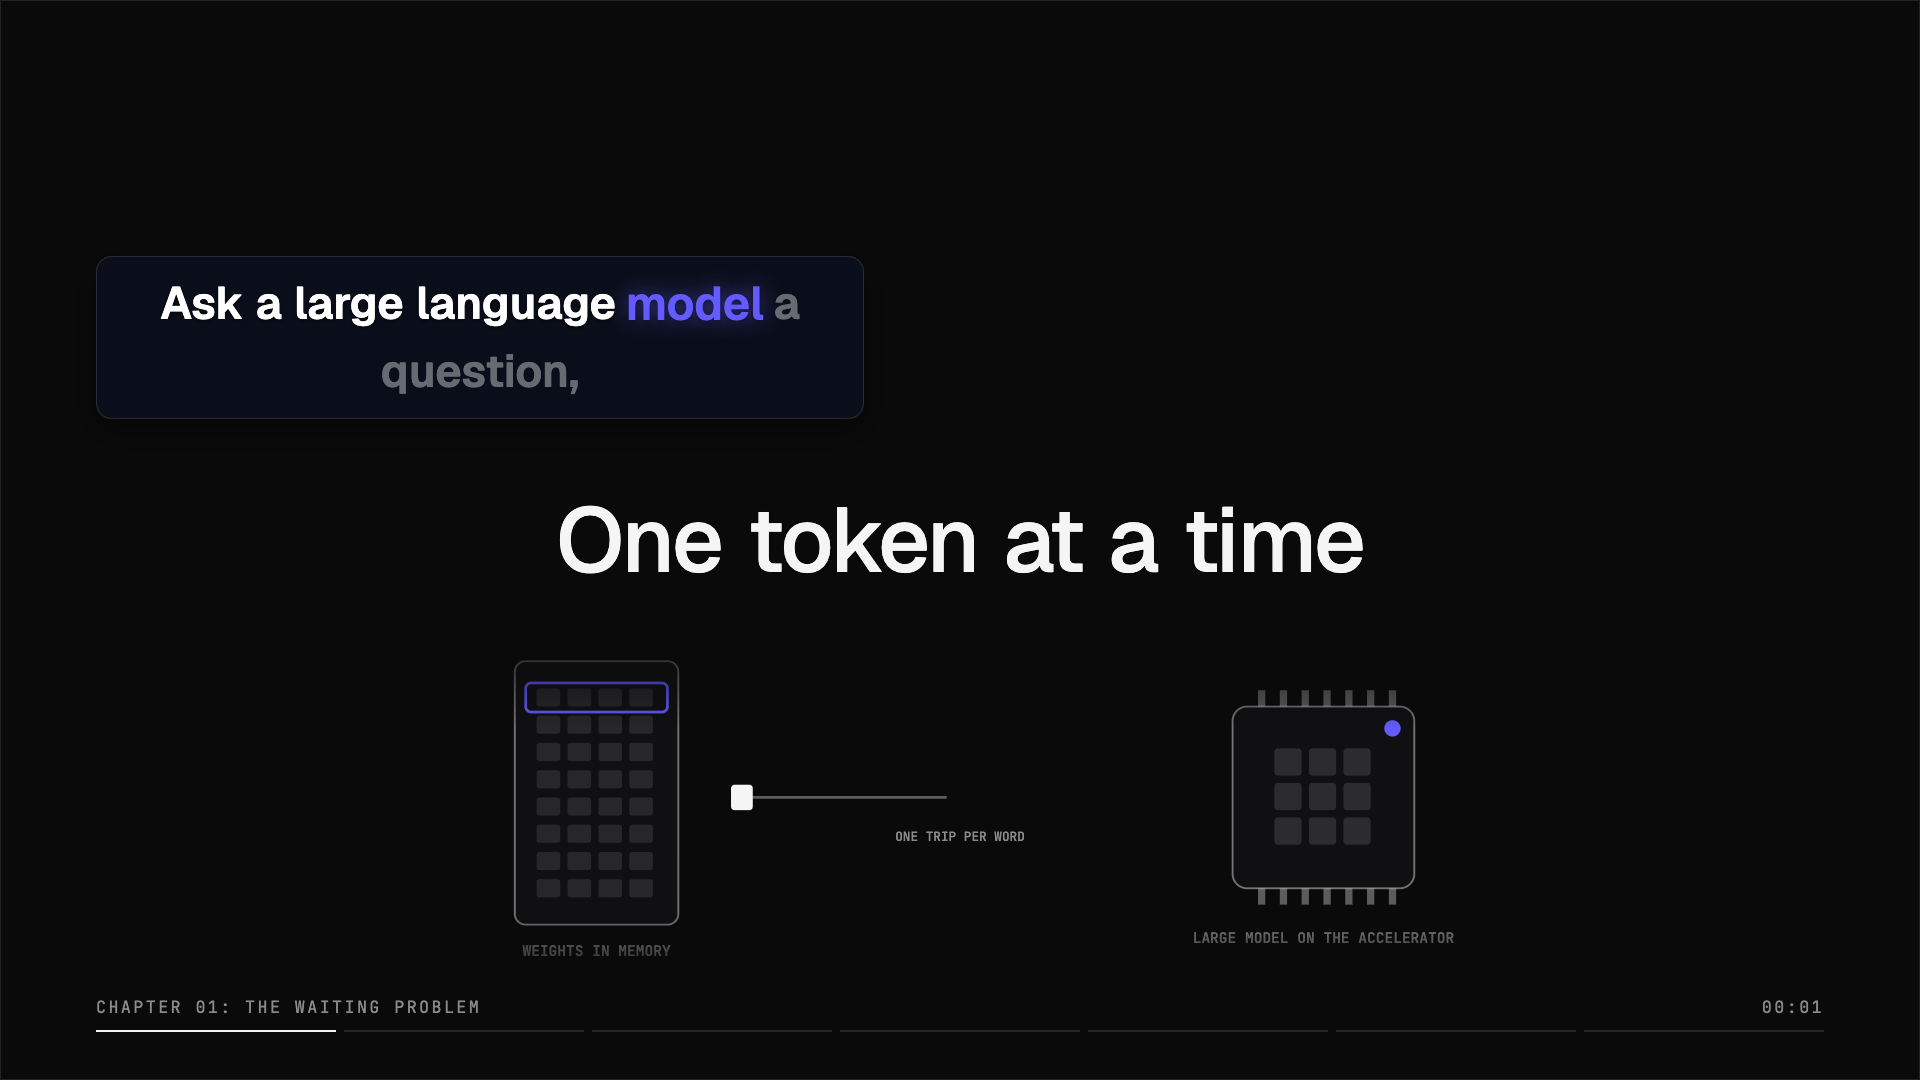
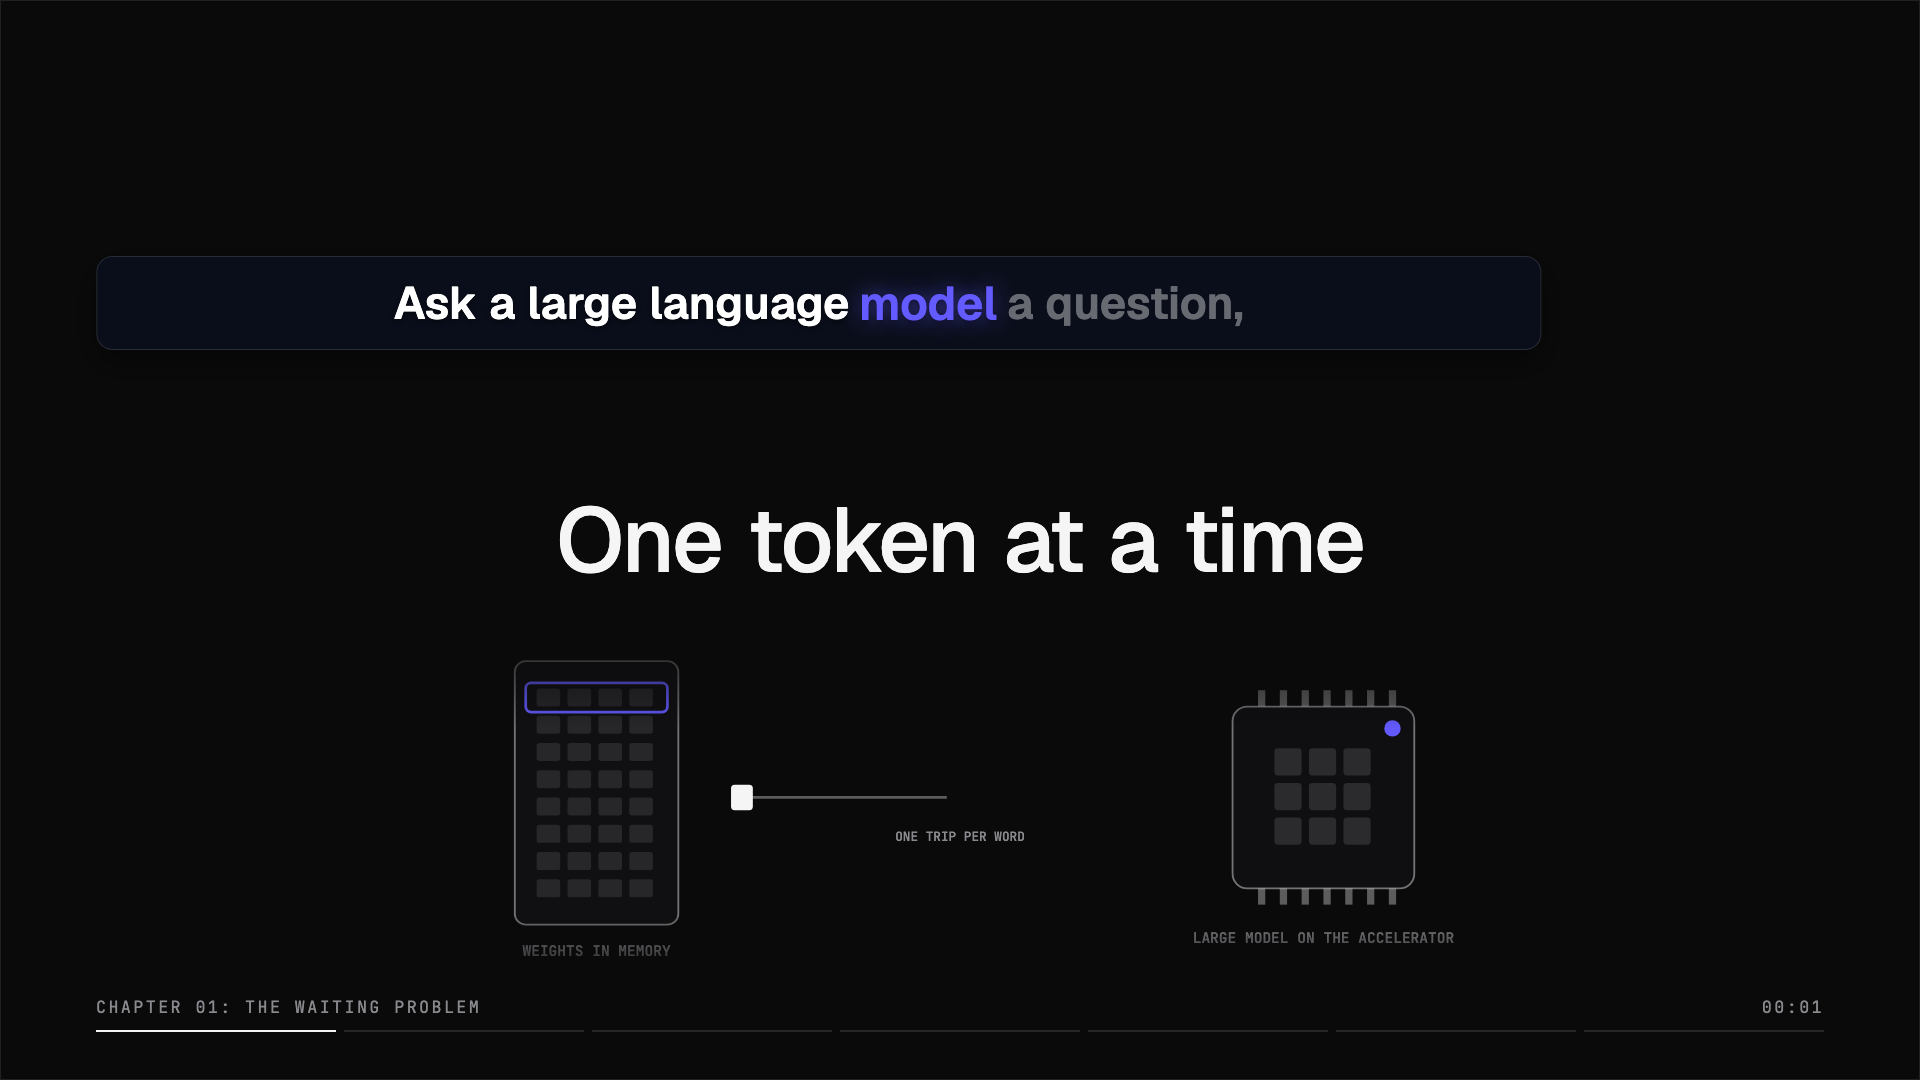
no-mistakes(review): Close caption review, gesture, export, and SVG scope gaps

Changed region(s): [[0.0625, 0.2444, 0.6562, 0.3056], [0.1875, 0.3361, 0.3125, 0.3667]]

diff --git a/backend/captionPlacement.test.ts b/backend/captionPlacement.test.ts
@@ -129,6 +129,14 @@ test("move and resize use composition coordinates and preserve the opposite edge
   });
   assert.equal(snapped.x, 0.5);
 });
+
+// Keeps an untouched gesture axis fixed when safe-area clamping would otherwise shift it.
+test("horizontal drag and width resize preserve the original vertical position", () => {
+  const implicit = resolveCaptionPlacement(base, "long");
+  assert.equal(dragCaption({ placement: implicit, format: "long", dx: 12, dy: 0, scale: 1, snap: false }).y, implicit.y);
+  assert.equal(dragCaption({ placement: implicit, format: "long", dx: 0, dy: 12, scale: 1, snap: false }).x, implicit.x);
+  assert.equal(resizeCaption({ placement: implicit, format: "long", edge: "right", dx: -12, scale: 1, snap: false }).y, implicit.y);
+});
 // Verifies rebuild carry-forward, owner reset and locked non-owner protection.
 test("writers preserve placements and owners alone can reset locked entries", () => {
   const previous = {
@@ -302,24 +310,53 @@ test("full design check uses the phrase start placement against art in the next 
 test("caption geometry rejects absolute and traversing SVG sources", async () => {
   const path = await import("node:path");
   const { resolveCaptionSvgSource } = await import("./designCheck/insetRegion");
-  assert.throws(() => resolveCaptionSvgSource("/etc/passwd.svg"), /only accepts package visuals SVG paths/);
-  assert.throws(() => resolveCaptionSvgSource("examples/demo/visuals/../../../../etc/passwd.svg"), /only accepts package visuals SVG paths/);
+  assert.throws(() => resolveCaptionSvgSource("/etc/passwd.svg", "demo"), /only accepts package visuals SVG paths/);
+  assert.throws(() => resolveCaptionSvgSource("examples/demo/visuals/../../../../etc/passwd.svg", "demo"), /only accepts package visuals SVG paths/);
   assert.throws(() => resolveCaptionSvgSource("examples/hello-scene/visuals/nodes.svg", "inset-stage"), /must belong to package/);
   const videosDir = fs.mkdtempSync(path.join(process.cwd(), ".caption-svg-scope-test-"));
   const packageDir = path.join(videosDir, "caption-scope-test");
+  const otherPackageDir = path.join(videosDir, "other-package");
   const visualsDir = path.join(packageDir, "visuals");
   const priorVideosDir = process.env.AIDEOS_VIDEOS_DIR;
   fs.mkdirSync(visualsDir, { recursive: true });
+  fs.mkdirSync(path.join(otherPackageDir, "visuals"), { recursive: true });
   fs.writeFileSync(path.join(packageDir, "film.json"), "{}");
-  fs.symlinkSync(path.resolve("examples/hello-scene/visuals/nodes.svg"), path.join(visualsDir, "escape.svg"));
+  fs.writeFileSync(path.join(otherPackageDir, "film.json"), "{}");
+  fs.writeFileSync(path.join(otherPackageDir, "visuals", "private.svg"), '<svg><text id="other-film-secret">private label</text></svg>');
+  fs.rmSync(visualsDir, { recursive: true });
+  fs.symlinkSync(path.join(otherPackageDir, "visuals"), visualsDir);
   process.env.AIDEOS_VIDEOS_DIR = videosDir;
   try {
-    assert.throws(() => resolveCaptionSvgSource("videos/caption-scope-test/visuals/escape.svg", "caption-scope-test"), /authorized package|escapes package/);
+    assert.throws(
+      () => resolveCaptionSvgSource("videos/caption-scope-test/visuals/private.svg", "caption-scope-test"),
+      (error: Error) => {
+        assert.match(error.message, /authorized package/);
+        assert.doesNotMatch(error.message, /other-film-secret|private label/);
+        return true;
+      },
+    );
   } finally {
     if (priorVideosDir === undefined) delete process.env.AIDEOS_VIDEOS_DIR;
     else process.env.AIDEOS_VIDEOS_DIR = priorVideosDir;
     fs.rmSync(videosDir, { recursive: true, force: true });
   }
+});
+
+// Disabled caption sources do not create a review region that unrelated text could satisfy.
+test("caption review omits placement geometry when rendering is disabled", async () => {
+  const { prepareCaptionReview } = await import("./review/captionRegion");
+  const { analyzeSample } = await import("./review/ocr");
+  const { measureBottomCaptions } = await import("./geminiReview/facts");
+  const placed = { ...base, captionPlacement: { long: top } };
+  const captionsOff = prepareCaptionReview({ ...placed, captions: "off" }, 1920, 1080);
+  const subtitlesOff = prepareCaptionReview({ ...placed, subtitles: false }, 1920, 1080);
+  assert.equal(captionsOff, null);
+  assert.equal(subtitlesOff, null);
+  const words = ["one", "two", "three"].map((text, index) => ({ text, left: 100 + index * 100, top: 900, width: 70, height: 45, conf: 95 }));
+  assert.equal(analyzeSample(words, null, 1920, 1080, 1, captionsOff).hasCaption, false);
+  const measured = await measureBottomCaptions("unused.mp4", 4, 12, captionsOff);
+  assert.equal(measured.hasCaptions, false);
+  assert.match(measured.summary, /disabled/);
 });
 
 // Executes the closed AI operation and its atomic rollback on a locked target.

diff --git a/backend/designCheck/insetRegion.ts b/backend/designCheck/insetRegion.ts
@@ -70,31 +70,33 @@ export function resolveCaptionSvgSource(svgSource: string, packageSlug?: string)
     parts.some((part) => !part || part === "." || part === "..") ||
     !/^(videos|examples)\/[^/]+\/visuals\/[^/]+\.svg$/.test(svgSource)
   ) throw new Error(`Caption geometry only accepts package visuals SVG paths: ${svgSource}`);
+  const targetSlug = packageSlug ?? parts[1];
   if (packageSlug && (parts[1] !== packageSlug || !/^[a-z0-9-]+$/.test(packageSlug)))
     throw new Error(`Caption geometry SVG source must belong to package ${packageSlug}: ${svgSource}`);
-  let resolved: string;
+  if (!/^[a-z0-9-]+$/.test(targetSlug))
+    throw new Error(`Caption geometry package slug is invalid: ${targetSlug}`);
+  const personalDir = getVideosDir();
+  const packageDir = resolvePackageDir(targetSlug);
+  const personalPackage = path.resolve(packageDir) === path.resolve(personalDir, targetSlug);
+  const expectedPrefix = `${personalPackage ? "videos" : "examples"}/${targetSlug}/visuals/`;
+  if (!svgSource.startsWith(expectedPrefix))
+    throw new Error(`Caption geometry SVG source must belong to package ${targetSlug}: ${svgSource}`);
+  const packageVisuals = path.join(packageDir, "visuals");
+  const svgPath = path.join(packageVisuals, parts[3]);
   try {
-    resolved = fs.realpathSync(resolveRepoAssetPath(svgSource));
+    if (fs.lstatSync(packageDir).isSymbolicLink() || fs.lstatSync(packageVisuals).isSymbolicLink() || fs.lstatSync(svgPath).isSymbolicLink())
+      throw new Error("Package SVG paths may not be symlinks");
+    const videosRoot = fs.realpathSync(personalPackage ? personalDir : getExamplesDir());
+    const physicalPackage = fs.realpathSync(packageDir);
+    if (physicalPackage !== path.join(videosRoot, targetSlug)) throw new Error("Package directory is not physically owned by its root");
+    const visualRoot = fs.realpathSync(packageVisuals);
+    const resolved = fs.realpathSync(svgPath);
+    const visualRelative = path.relative(visualRoot, resolved);
+    if (visualRelative.startsWith("..") || path.isAbsolute(visualRelative)) throw new Error("SVG escapes package visuals");
+    return resolved;
   } catch {
     throw new Error(`Caption geometry SVG source does not resolve to an authorized package asset: ${svgSource}`);
   }
-  const roots = [getVideosDir(), getExamplesDir()].flatMap((root) => {
-    try { return [fs.realpathSync(root)]; } catch { return []; }
-  });
-  const inPackageVisuals = roots.some((root) => {
-    const relative = path.relative(path.resolve(root), resolved);
-    return !relative.startsWith("..") && !path.isAbsolute(relative) && relative.split(path.sep)[1] === "visuals";
-  });
-  if (!inPackageVisuals) throw new Error(`Caption geometry SVG path escapes an authorized package visuals directory: ${svgSource}`);
-  if (packageSlug) {
-    let visualRoot: string;
-    try { visualRoot = fs.realpathSync(path.join(resolvePackageDir(packageSlug), "visuals")); }
-    catch { throw new Error(`Caption geometry package visuals directory does not resolve: ${packageSlug}`); }
-    const relative = path.relative(visualRoot, resolved);
-    if (relative.startsWith("..") || path.isAbsolute(relative))
-      throw new Error(`Caption geometry SVG source escapes package ${packageSlug}: ${svgSource}`);
-  }
-  return resolved;
 }
 
 // Reads an element's authored opacity, defaulting to opaque.
@@ -105,7 +107,7 @@ function authoredOpacity(node: SvgNode): number {
 
 // Flattens an asset document into its drawn elements, recording each one's chain of ancestors.
 function collectLeaves(svgSource: string, packageSlug?: string): Leaf[] {
-  const file = resolveCaptionSvgSource(svgSource, packageSlug);
+  const file = packageSlug ? resolveCaptionSvgSource(svgSource, packageSlug) : resolveRepoAssetPath(svgSource);
   if (!fs.existsSync(file)) return [];
   // A design build rewrites artwork in place, so the cache is keyed by the file's own version.
   const stat = fs.statSync(file);
@@ -246,7 +248,7 @@ export function checkInsetRegions(film: Film, scene: Scene): InsetFinding[] {
         const toPx = sceneToFrame(frame, scene, size.width, size.height);
         for (const entity of frame.entities) {
           if (entity.kind === "background" || reported.has(entity.entityId)) continue;
-          const hit = projectedSvgParts(entity, toPx).find((part) => overlapOf(part.bounds, region));
+          const hit = projectedSvgParts(entity, toPx, film.id).find((part) => overlapOf(part.bounds, region));
           if (!hit) continue;
           reported.add(entity.entityId);
           const cut = format === "long" ? "wide" : "reel";

diff --git a/backend/review/renderFacts.ts b/backend/review/renderFacts.ts
@@ -34,7 +34,7 @@ export interface RenderFacts {
 export interface RenderOptions {
   /** Skip the OCR pass (pixel facts only). */
   skipOcr?: boolean;
-  captionRectAt?: (t: number) => CaptionRect;
+  captionRectAt?: ((t: number) => CaptionRect) | null;
   onProgress?: (message: string) => void;
 }
 
@@ -56,14 +56,14 @@ async function pixelPass(file: string) {
 }
 
 // Runs the OCR pass: one full-resolution frame per sample interval, several tesseract processes at once.
-async function ocrPass(file: string, video: VideoFacts, onProgress?: (m: string) => void, captionRectAt?: (t: number) => CaptionRect): Promise<SampleAnalysis[]> {
+async function ocrPass(file: string, video: VideoFacts, onProgress?: (m: string) => void, captionRectAt?: ((t: number) => CaptionRect) | null): Promise<SampleAnalysis[]> {
   const out: SampleAnalysis[] = [];
   const limit = Math.max(1, Math.min(4, os.cpus().length - 1));
   const inflight = new Set<Promise<void>>();
   await streamSampleFrames(file, video, THRESHOLDS.captions.sampleEverySec, async (gray, index, t) => {
     if (t > video.durationSec) return;
     const job = ocrFrame(gray, video.width, video.height).then((words) => {
-      out.push(analyzeSample(words, gray, video.width, video.height, t, captionRectAt?.(t)));
+      out.push(analyzeSample(words, gray, video.width, video.height, t, captionRectAt === null ? null : captionRectAt?.(t)));
       if (index % 10 === 9) onProgress?.(`ocr ${out.length} samples`);
     });
     const tracked = job.finally(() => inflight.delete(tracked));

diff --git a/backend/review/ocr.ts b/backend/review/ocr.ts
@@ -159,12 +159,12 @@ function overlapping(a: OcrWord, b: OcrWord, ratio: number): boolean {
 }
 
 // Measures one sampled frame: caption card, small and faint words, overlaps, edge crowding, numbers.
-export function analyzeSample(words: OcrWord[], gray: Uint8Array | null, width: number, height: number, t: number, captionRect?: CaptionRect): SampleAnalysis {
+export function analyzeSample(words: OcrWord[], gray: Uint8Array | null, width: number, height: number, t: number, captionRect?: CaptionRect | null): SampleAnalysis {
   const unit = Math.min(width, height) / 1080;
   const T = THRESHOLDS;
   const confident = words.filter((w) => w.conf >= T.readability.confidenceMin && w.text.length > 1 && /[A-Za-z0-9]/.test(w.text));
 
-  const band = confident.filter((w) => (captionRect ? w.left >= captionRect.x && w.left + w.width <= captionRect.x + captionRect.w && w.top >= captionRect.y && w.top + w.height <= captionRect.y + captionRect.h : w.top > height * T.captions.bandTopRatio) && w.height / unit >= T.captions.wordHeightMin);
+  const band = captionRect === null ? [] : confident.filter((w) => (captionRect ? w.left >= captionRect.x && w.left + w.width <= captionRect.x + captionRect.w && w.top >= captionRect.y && w.top + w.height <= captionRect.y + captionRect.h : w.top > height * T.captions.bandTopRatio) && w.height / unit >= T.captions.wordHeightMin);
   const lines = new Map<number, OcrWord[]>();
   for (const w of band) {
     const key = Math.round(w.top / (20 * unit));

diff --git a/src/dl/Video.tsx b/src/dl/Video.tsx
@@ -4,7 +4,7 @@
  * Used by: src/Root.tsx, backend/insetStage.test.ts.
  */
 
-import React from "react";
+import React, { useMemo } from "react";
 import { Audio, Sequence, staticFile, useVideoConfig } from "remotion";
 import { FilmView } from "./Film";
 import { deliveryTimeline, formatForSize } from "./delivery";
@@ -56,6 +56,7 @@ export const Video: React.FC<VideoProps> = ({
   const effectiveVoiceoverVolume = voiceoverVolume ?? film.voiceover?.volume ?? 1;
   const effectiveMusicSrc = (musicSrc ?? "").trim() || film.music?.src || film.audio?.src || "";
   const effectiveMusicVolume = musicVolume ?? film.music?.volume ?? 1;
+  const captionWords = useMemo(() => captionWordsForFilm(film), [film]);
 
   // Extract speech intervals from audio clips or timeline shots with narration
   const speechIntervals: SpeechInterval[] =
@@ -165,9 +166,7 @@ export const Video: React.FC<VideoProps> = ({
         accent={accent}
         showGrid={showGrid}
         showRail={showRail}
-        captionWords={
-          captionWordsForFilm(film)
-        }
+        captionWords={captionWords}
         includeAudio={false}
       />
     </>

diff --git a/src/dl/captionPlacement.ts b/src/dl/captionPlacement.ts
@@ -172,7 +172,12 @@ export function dragCaption({
   const bounds = captionBounds(format, width, height, next.w, next.y);
   next.x = snapTo(next.x, [bounds.minX, 0.5, bounds.maxX], snap);
   next.y = snapTo(next.y, [bounds.minY, 0.45, bounds.maxY], snap);
-  return clampCaptionPlacement(next, format);
+  const clamped = clampCaptionPlacement(next, format);
+  return {
+    ...clamped,
+    x: dx === 0 && next.x === placement.x ? placement.x : clamped.x,
+    y: dy === 0 && next.y === placement.y ? placement.y : clamped.y,
+  };
 }
 // Resizes from one edge while retaining the opposite edge and the fixed font size.
 export function resizeCaption({
@@ -196,10 +201,11 @@ export function resizeCaption({
     bounds.minW,
     Math.max(bounds.minW, limit),
   );
-  return clampCaptionPlacement(
+  const clamped = clampCaptionPlacement(
     { ...placement, w, x: opposite + ((edge === "left" ? -1 : 1) * w) / 2 },
     format,
   );
+  return { ...clamped, y: placement.y };
 }
 // Sets or resets one scope, refusing agent writes to a pinned effective card.
 export function setCaptionPlacement(

diff --git a/backend/designCheck/threeStage.ts b/backend/designCheck/threeStage.ts
@@ -51,7 +51,7 @@ export function checkThreeStage(film: Film, scene: Scene, context: DesignCheckCo
     try {
       const facts = prepareStageFacts(scene, width, height);
       dispose = facts.dispose;
-      const svgAt = scene.props.some((p) => p.plane === "foreground") ? prepareSvgProjection(scene, width, height) : undefined;
+      const svgAt = scene.props.some((p) => p.plane === "foreground") ? prepareSvgProjection(scene, width, height, film.id) : undefined;
       const foregroundIds = new Set(scene.props.filter((p) => p.plane === "foreground").map((p) => p.assetId));
       const captions = film.captions !== "off" && film.subtitles !== false;
       const placed = timeline.some((t) => resolveCaptionCardWidth(resolveCaptionPlacement(film, format, t.shot.id), width).fixed);

diff --git a/backend/geminiReview/facts.ts b/backend/geminiReview/facts.ts
@@ -163,7 +163,7 @@ export async function measureBottomCaptions(
   videoPath: string,
   durationSec: number,
   numSamples = 12,
-  captionRectAt?: (t: number) => CaptionRect,
+  captionRectAt?: ((t: number) => CaptionRect) | null,
 ): Promise<{
   measured: boolean;
   hasCaptions: boolean;
@@ -175,6 +175,18 @@ export async function measureBottomCaptions(
   score: number;
   summary: string;
 }> {
+  if (captionRectAt === null) {
+    return {
+      measured: true,
+      hasCaptions: false,
+      coverageRatio: 0,
+      sampledFrames: 0,
+      captionFrames: 0,
+      score: 0,
+      summary: "Caption rendering is disabled by film data",
+    };
+  }
+
   if (durationSec <= 2) {
     return {
       measured: false,

diff --git a/backend/review/captionRegion.ts b/backend/review/captionRegion.ts
@@ -19,6 +19,7 @@ export function prepareCaptionReview(
   width: number,
   height: number,
 ) {
+  if (film.captions === "off" || film.subtitles === false) return null;
   if (!film.captionPlacement && !film.shots.some((s) => s.captionPlacement))
     return undefined;
   const format = width < height ? "reel" : "long";

diff --git a/docs/media/movable-captions/README.md b/docs/media/movable-captions/README.md
@@ -1,11 +1,12 @@
 # Movable caption proof
 
-Real film `speculative-decoding-designed`, frame 45. The after images use positions moved,
-resized and locked through the studio. Font size is unchanged. These images are for visual
+Real film `speculative-decoding-designed`, frame 45. The after images use saved positions
+that are locked. Font size is unchanged. These images are for visual
 acceptance by the owner.
 
-The saved Wide card is 40% of the frame width at X 25% / Y 24%; the Reel card is 64%
-at X 40% / Y 29%. Both are locked. Every saved card uses its declared visible width,
+The saved Wide card is `{x: 0.42637305699481864, y: 0.2367681347150259, w: 0.7527461139896373}`;
+the Reel card is `{x: 0.3983630781040107, y: 0.28778821243523317, w: 0.63524467472654}`.
+Both are locked. Every saved card uses its declared visible width,
 including a saved width of 86%; implicit defaults retain the original content-sized card.
 
 | Format | Before | Moved and resized |
